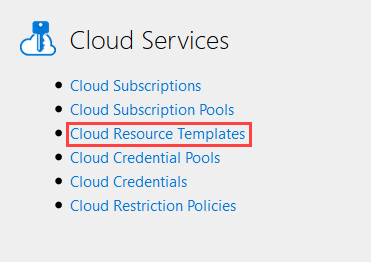
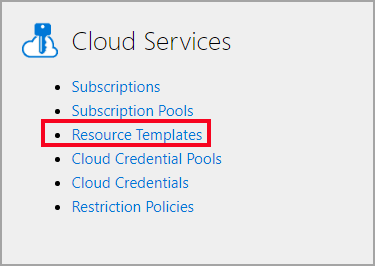
updated docs to reflect UI changes

diff --git a/lod/quick-starts/cloud-slice/provision-cloud-resources-azure.md b/lod/quick-starts/cloud-slice/provision-cloud-resources-azure.md
@@ -97,7 +97,7 @@ Congratulations, you have just created your first Cloud Resource Template! Now l
 
 1. [] Select the **Cloud** tab.
 
-1. [] Scroll down to where you defined your ++corp-data++ resource group, then click **Add Template** below the _Cloud Resource Templates_ heading.
+1. [] Scroll down to where you defined your ++corp-data++ resource group, then click **Add Resource Template** below the _Cloud Resource Templates_ heading.
 
 1. [] Enter ++simple-storage-account++ into the **Name** field, and change the operator drop down adjacent to it to **Equal**.
 
@@ -105,17 +105,15 @@ Congratulations, you have just created your first Cloud Resource Template! Now l
 
 1. [] Select your Cloud Resource Template in the list of results, then click **OK**.
 
-    > [!KNOWLEDGE] When you add a Cloud Resource Template to a Cloud Resource Group in a lab profile, if that template has any required parameters, you will automatically be prompted to provide values for those parameters. In this case, you do not get prompted for parameter values because the only parameter in the template is optional.
-
-1. [] Check the **Required For Display** checkbox.
-
-    > [!KNOWLEDGE] When you mark a Cloud Resource Template as required for display, the lab will not be available to the student once launched until the resources defined in the Cloud Resource Template are fully provisioned. If your lab provisions resources that are not required at the beginning of the lab, you may want to uncheck this checkbox so that the lab launches more quickly, allowing students to start working in the lab even while resources are being provisioned.
-
-1. [] Click **Edit Parameters**.
+    > [!KNOWLEDGE] When you add a Cloud Resource Template to a Cloud Resource Group in a lab profile, if that template has any required parameters, you will automatically be prompted to provide values for those parameters. 
 
 1. [] Enter ++mysa++ into the **Value** field for the "Storage Account Name Prefix" parameter, then click **OK**.
 
-    > [!KNOWLEDGE] Reminder: this is optional, because the parameter was not configured as required.
+  > [!KNOWLEDGE] Reminder: this is optional, because the parameter was not configured as required.
+
+1. [] Uncheck the **Deploy in Background** checkbox.
+
+    > [!KNOWLEDGE] When you do not mark a Cloud Resource Template as deploy in background, the lab will not be available to the student once launched until the resources defined in the Cloud Resource Template are fully provisioned. If your lab provisions resources that are not required at the beginning of the lab, you may want to check this checkbox so that the lab launches more quickly,allowing students to start working in the lab even while resources are being provisioned.
 
 1. [] Click **Save** to save the updated lab profile.
 

diff --git a/lod/quick-starts/cloud-slice/create.md b/lod/quick-starts/cloud-slice/create.md
@@ -50,11 +50,11 @@ This is all that is required to create a lab profile; however, you will need to 
     
     1. [ ] Click **OK**.
 
-1. [ ] Click **Add Portal User Account**, and enter ++Taylor++ into the Name Prefix field.
+1. [ ] Click **Add User Account**, and enter ++Taylor++ into the Name Prefix field.
 
-1. [ ] Click **Add Cloud Resource Group**, and enter ++corp-data++ into the Name Prefix field.
+1. [ ] Click **Add Resource Group**, and enter ++corp-data++ into the Name Prefix field.
 
-1. [ ] Click **Assign User Account**, select **Taylor** in the combo box, and select **Contributor** in the Role combo box.
+1. [ ] Click **Add Permission**, select **Taylor** in the combo box, and select **Contributor** in the Role combo box.
 
 1. [ ] Click **Save** at the bottom of the **Create Lab Profile** window to save the lab.
 
